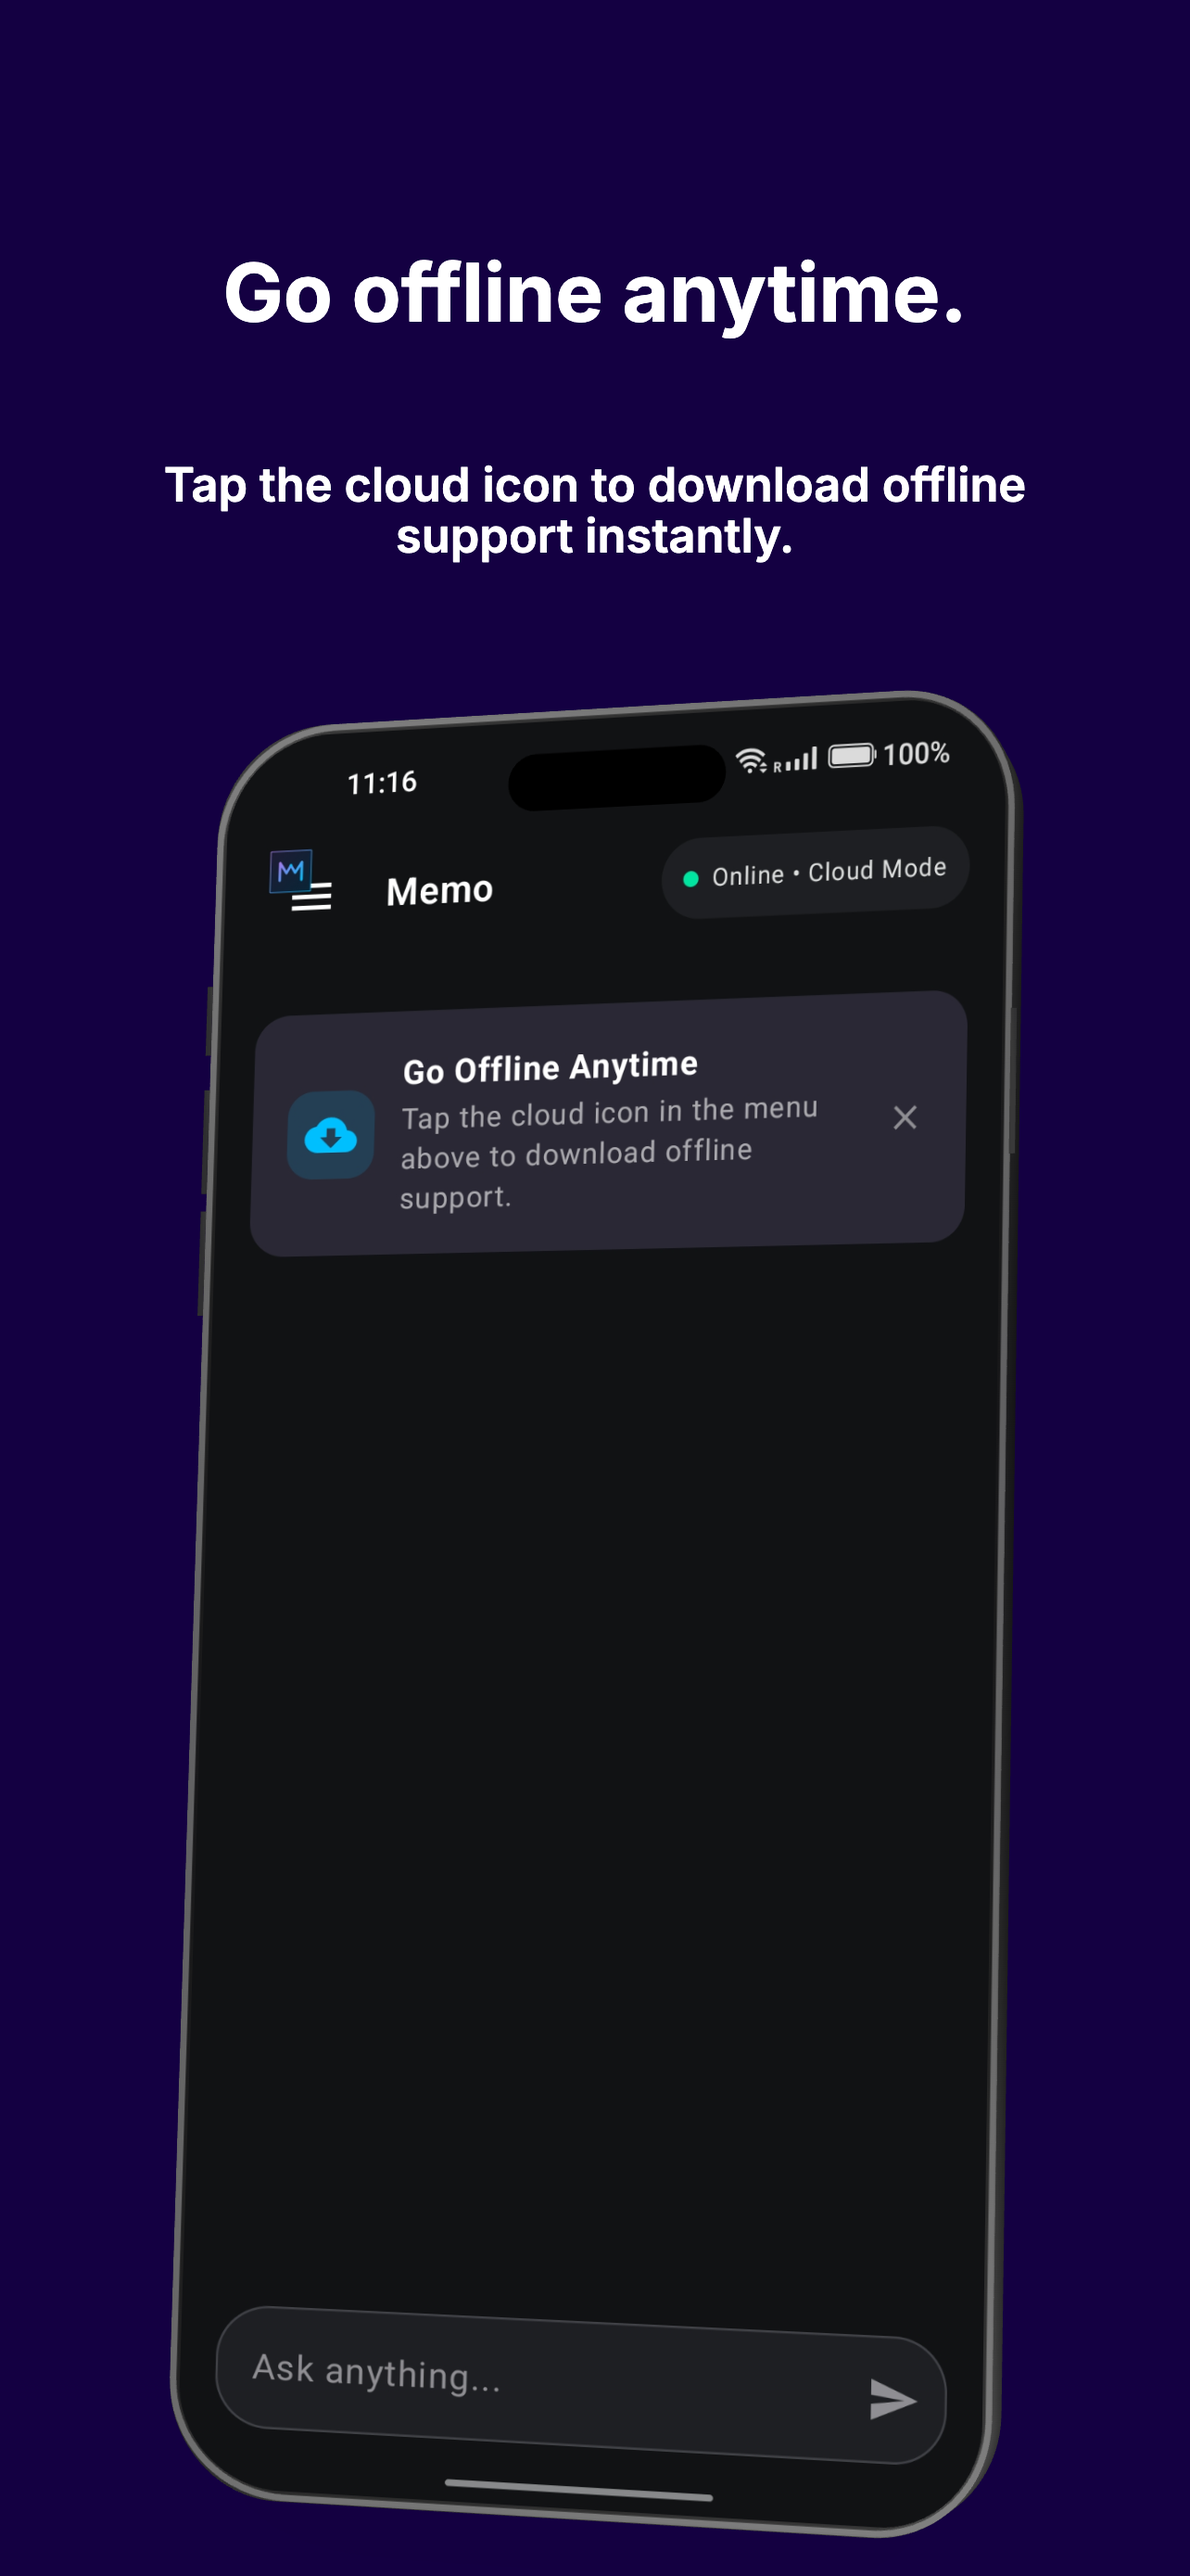
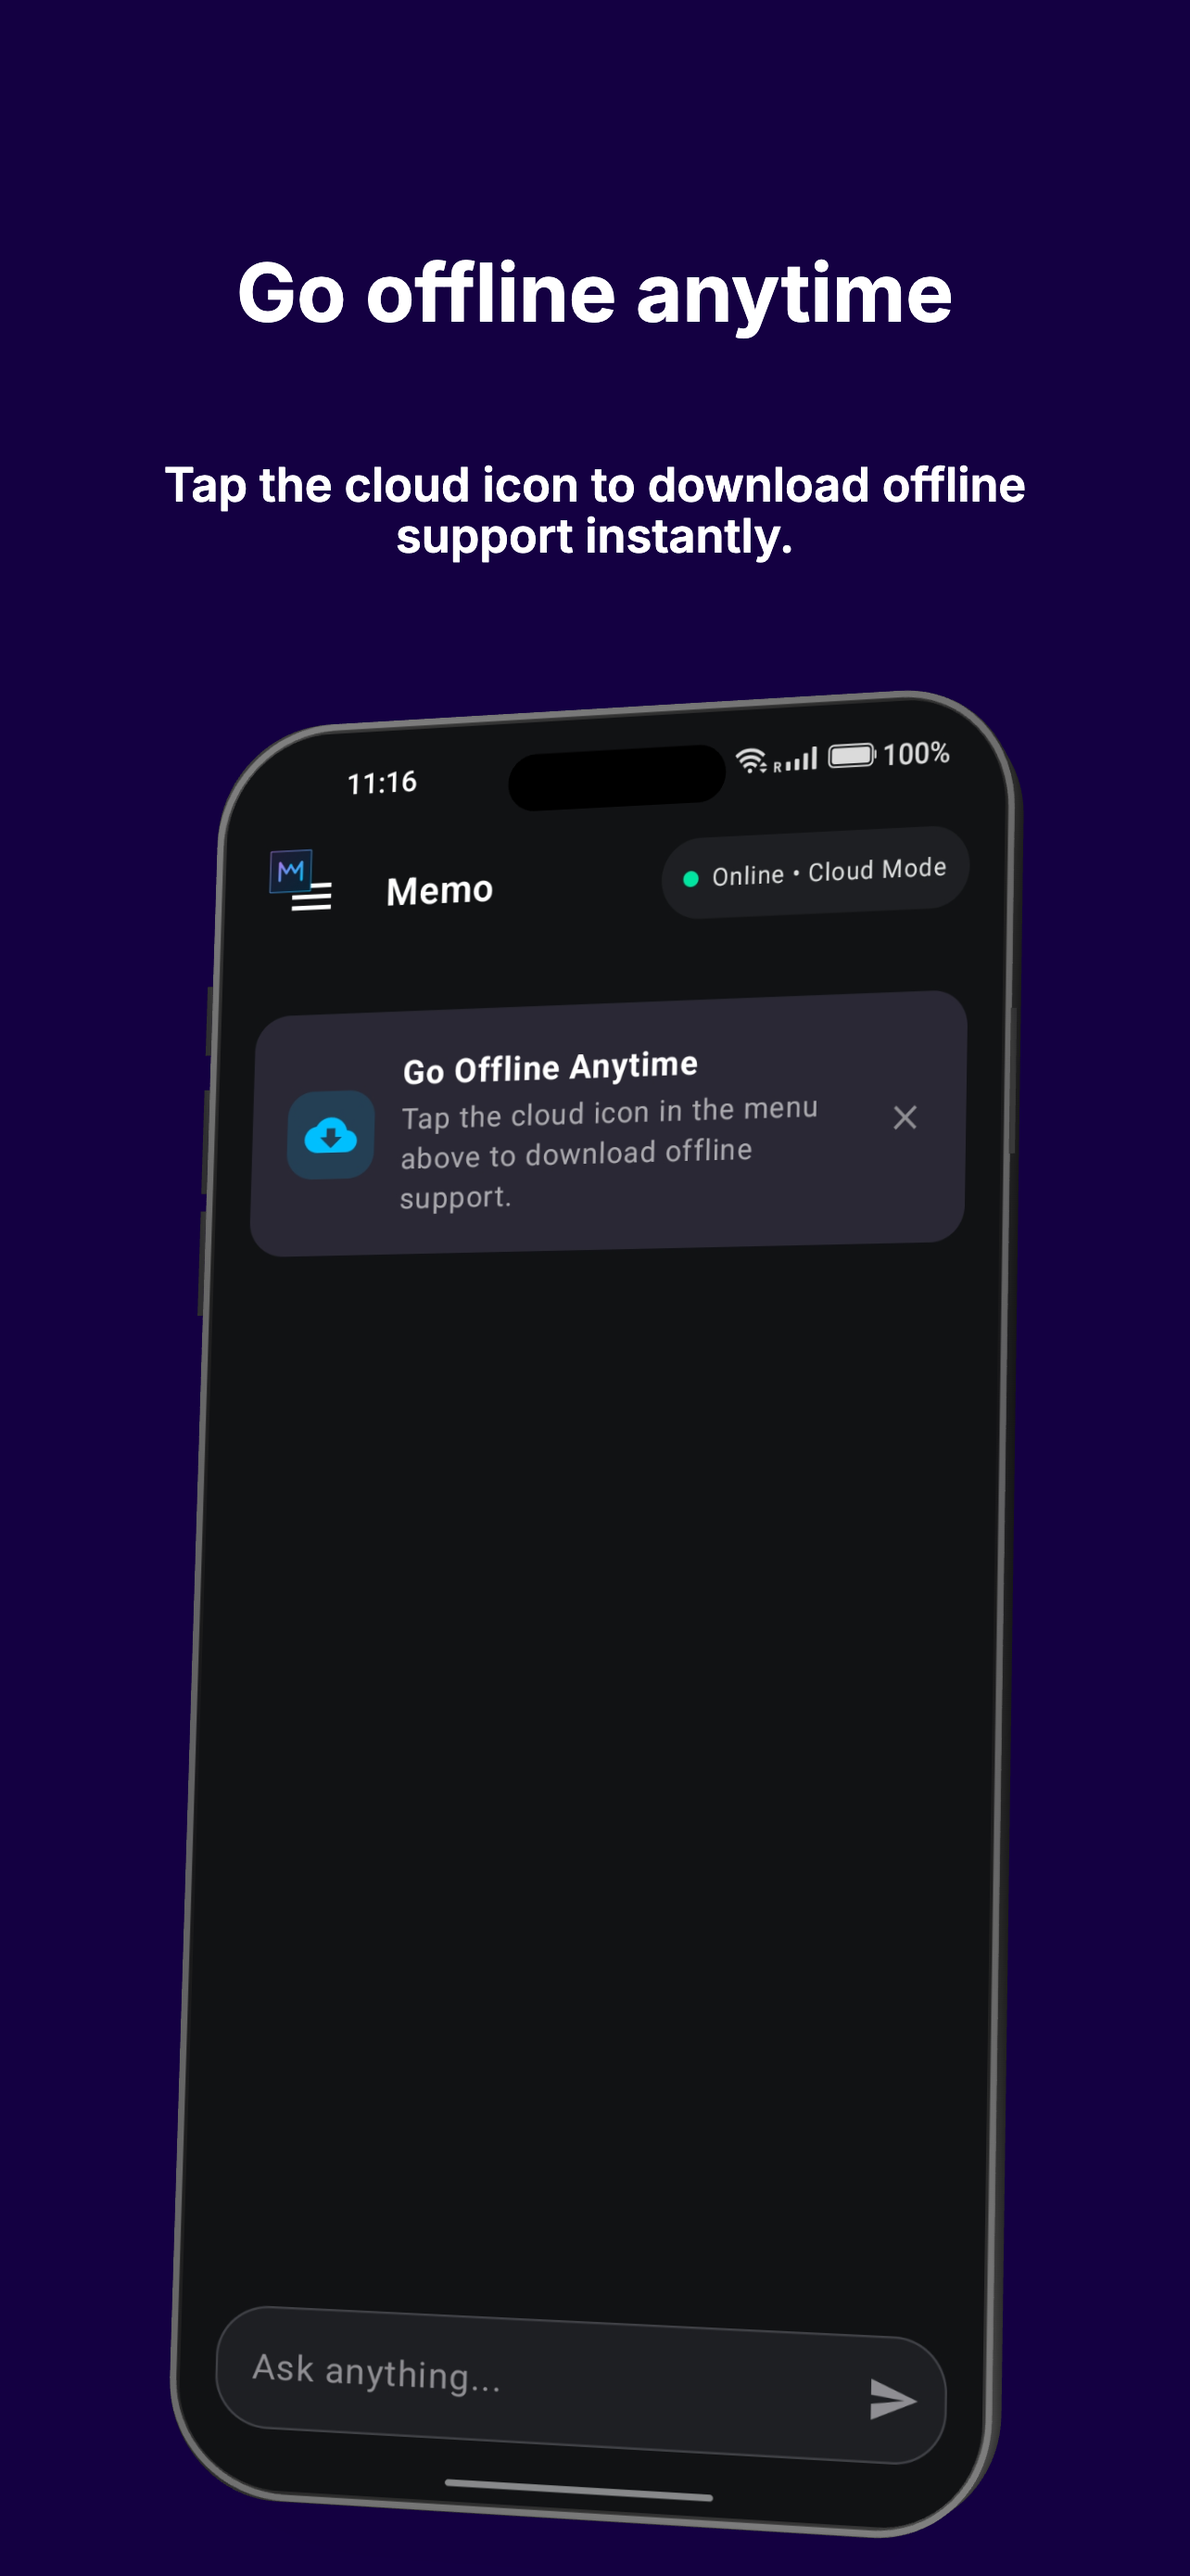
Changed the listing images

Changed region(s): [[0.1869, 0.0929, 0.81, 0.1548]]

diff --git a/README.md b/README.md
@@ -57,9 +57,9 @@ Memo is a small, focused library that solves all three — as a drop-in layer, n
 
 <table>
 <tr>
-<td width="33%"><img src="https://raw.githubusercontent.com/Majid460/memo-cache-android/main/docs/screenshots/01-memo-welcome-offline-ai.jpg" width="100%" /></td>
-<td width="33%"><img src="https://raw.githubusercontent.com/Majid460/memo-cache-android/main/docs/screenshots/02-go-offline-anytime-prompt.jpg" width="100%" /></td>
-<td width="33%"><img src="https://raw.githubusercontent.com/Majid460/memo-cache-android/main/docs/screenshots/03-structured-answers-formatting.jpg" width="100%" /></td>
+<td width="33%"><img src="https://raw.githubusercontent.com/Majid460/memo-cache-android/main/docs/screenshots/01-welcome.png" width="100%" /></td>
+<td width="33%"><img src="https://raw.githubusercontent.com/Majid460/memo-cache-android/main/docs/screenshots/02-offline-prompt.png" width="100%" /></td>
+<td width="33%"><img src="https://raw.githubusercontent.com/Majid460/memo-cache-android/main/docs/screenshots/03-chat-formatting.png" width="100%" /></td>
 </tr>
 <tr>
 <td align="center"><b>Choose your model</b><br/>Pick Lite or Standard on first launch</td>
@@ -67,9 +67,9 @@ Memo is a small, focused library that solves all three — as a drop-in layer, n
 <td align="center"><b>Smart rendering</b><br/>Tables, headings, formatting — handled</td>
 </tr>
 <tr>
-<td width="33%"><img src="https://raw.githubusercontent.com/Majid460/memo-cache-android/main/docs/screenshots/04-total-control-model-settings.jpg" width="100%" /></td>
-<td width="33%"><img src="https://raw.githubusercontent.com/Majid460/memo-cache-android/main/docs/screenshots/05-downloading-local-ai-model.jpg" width="100%" /></td>
-<td width="33%"><img src="https://raw.githubusercontent.com/Majid460/memo-cache-android/main/docs/screenshots/06-status-error-no-model-available.jpg" width="100%" /></td>
+<td width="33%"><img src="https://raw.githubusercontent.com/Majid460/memo-cache-android/main/docs/screenshots/04-control-settings.png" width="100%" /></td>
+<td width="33%"><img src="https://raw.githubusercontent.com/Majid460/memo-cache-android/main/docs/screenshots/05-download-progress.png" width="100%" /></td>
+<td width="33%"><img src="https://raw.githubusercontent.com/Majid460/memo-cache-android/main/docs/screenshots/06-status-alert.png" width="100%" /></td>
 </tr>
 <tr>
 <td align="center"><b>Full control</b><br/>Switch models, monitor resources, anytime</td>
@@ -77,7 +77,7 @@ Memo is a small, focused library that solves all three — as a drop-in layer, n
 <td align="center"><b>Model required status</b><br/>Alerts you when a local model needs loading</td>
 </tr>
 <tr>
-<td width="33%"><img src="https://raw.githubusercontent.com/Majid460/memo-cache-android/main/docs/screenshots/07-zero-signal-offline-chat.jpg" width="100%" /></td>
+<td width="33%"><img src="https://raw.githubusercontent.com/Majid460/memo-cache-android/main/docs/screenshots/07-offline-chatting.png" width="100%" /></td>
 <td width="33%"></td>
 <td width="33%"></td>
 </tr>
@@ -88,7 +88,7 @@ Memo is a small, focused library that solves all three — as a drop-in layer, n
 </tr>
 </table>
 
-All six screenshots are from the included Compose demo app, included in this repo and runnable out of the box.
+All the screenshots are from the included Compose demo app, included in this repo and runnable out of the box.
 
 ---
 
